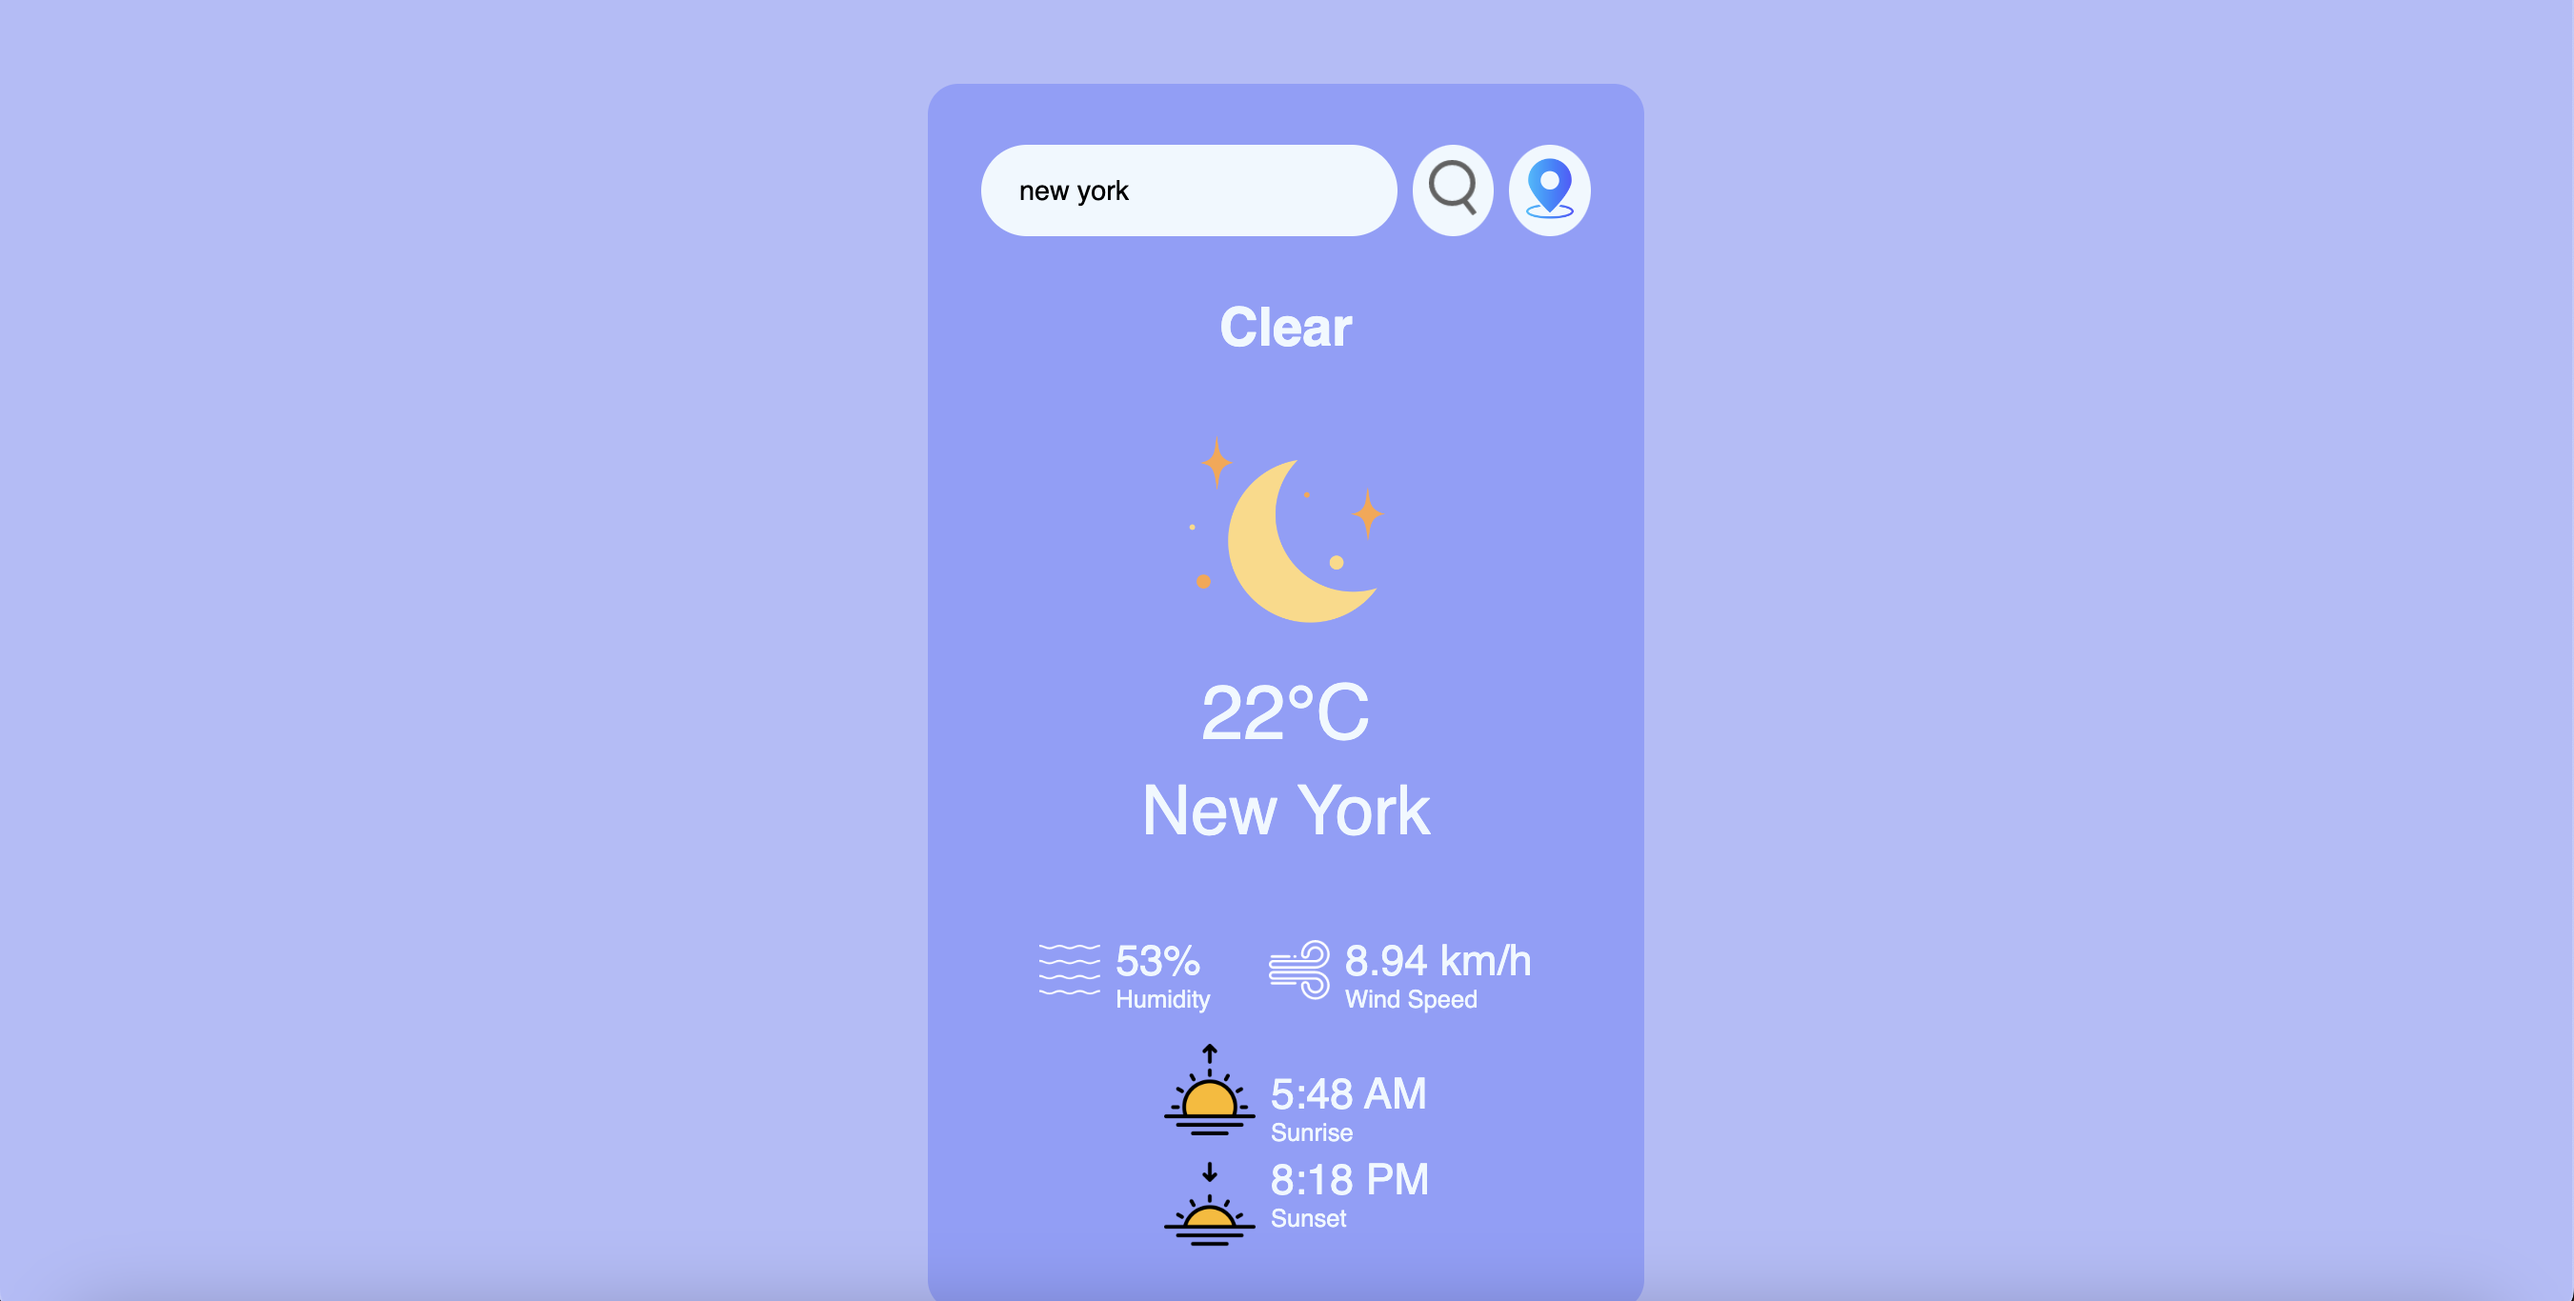
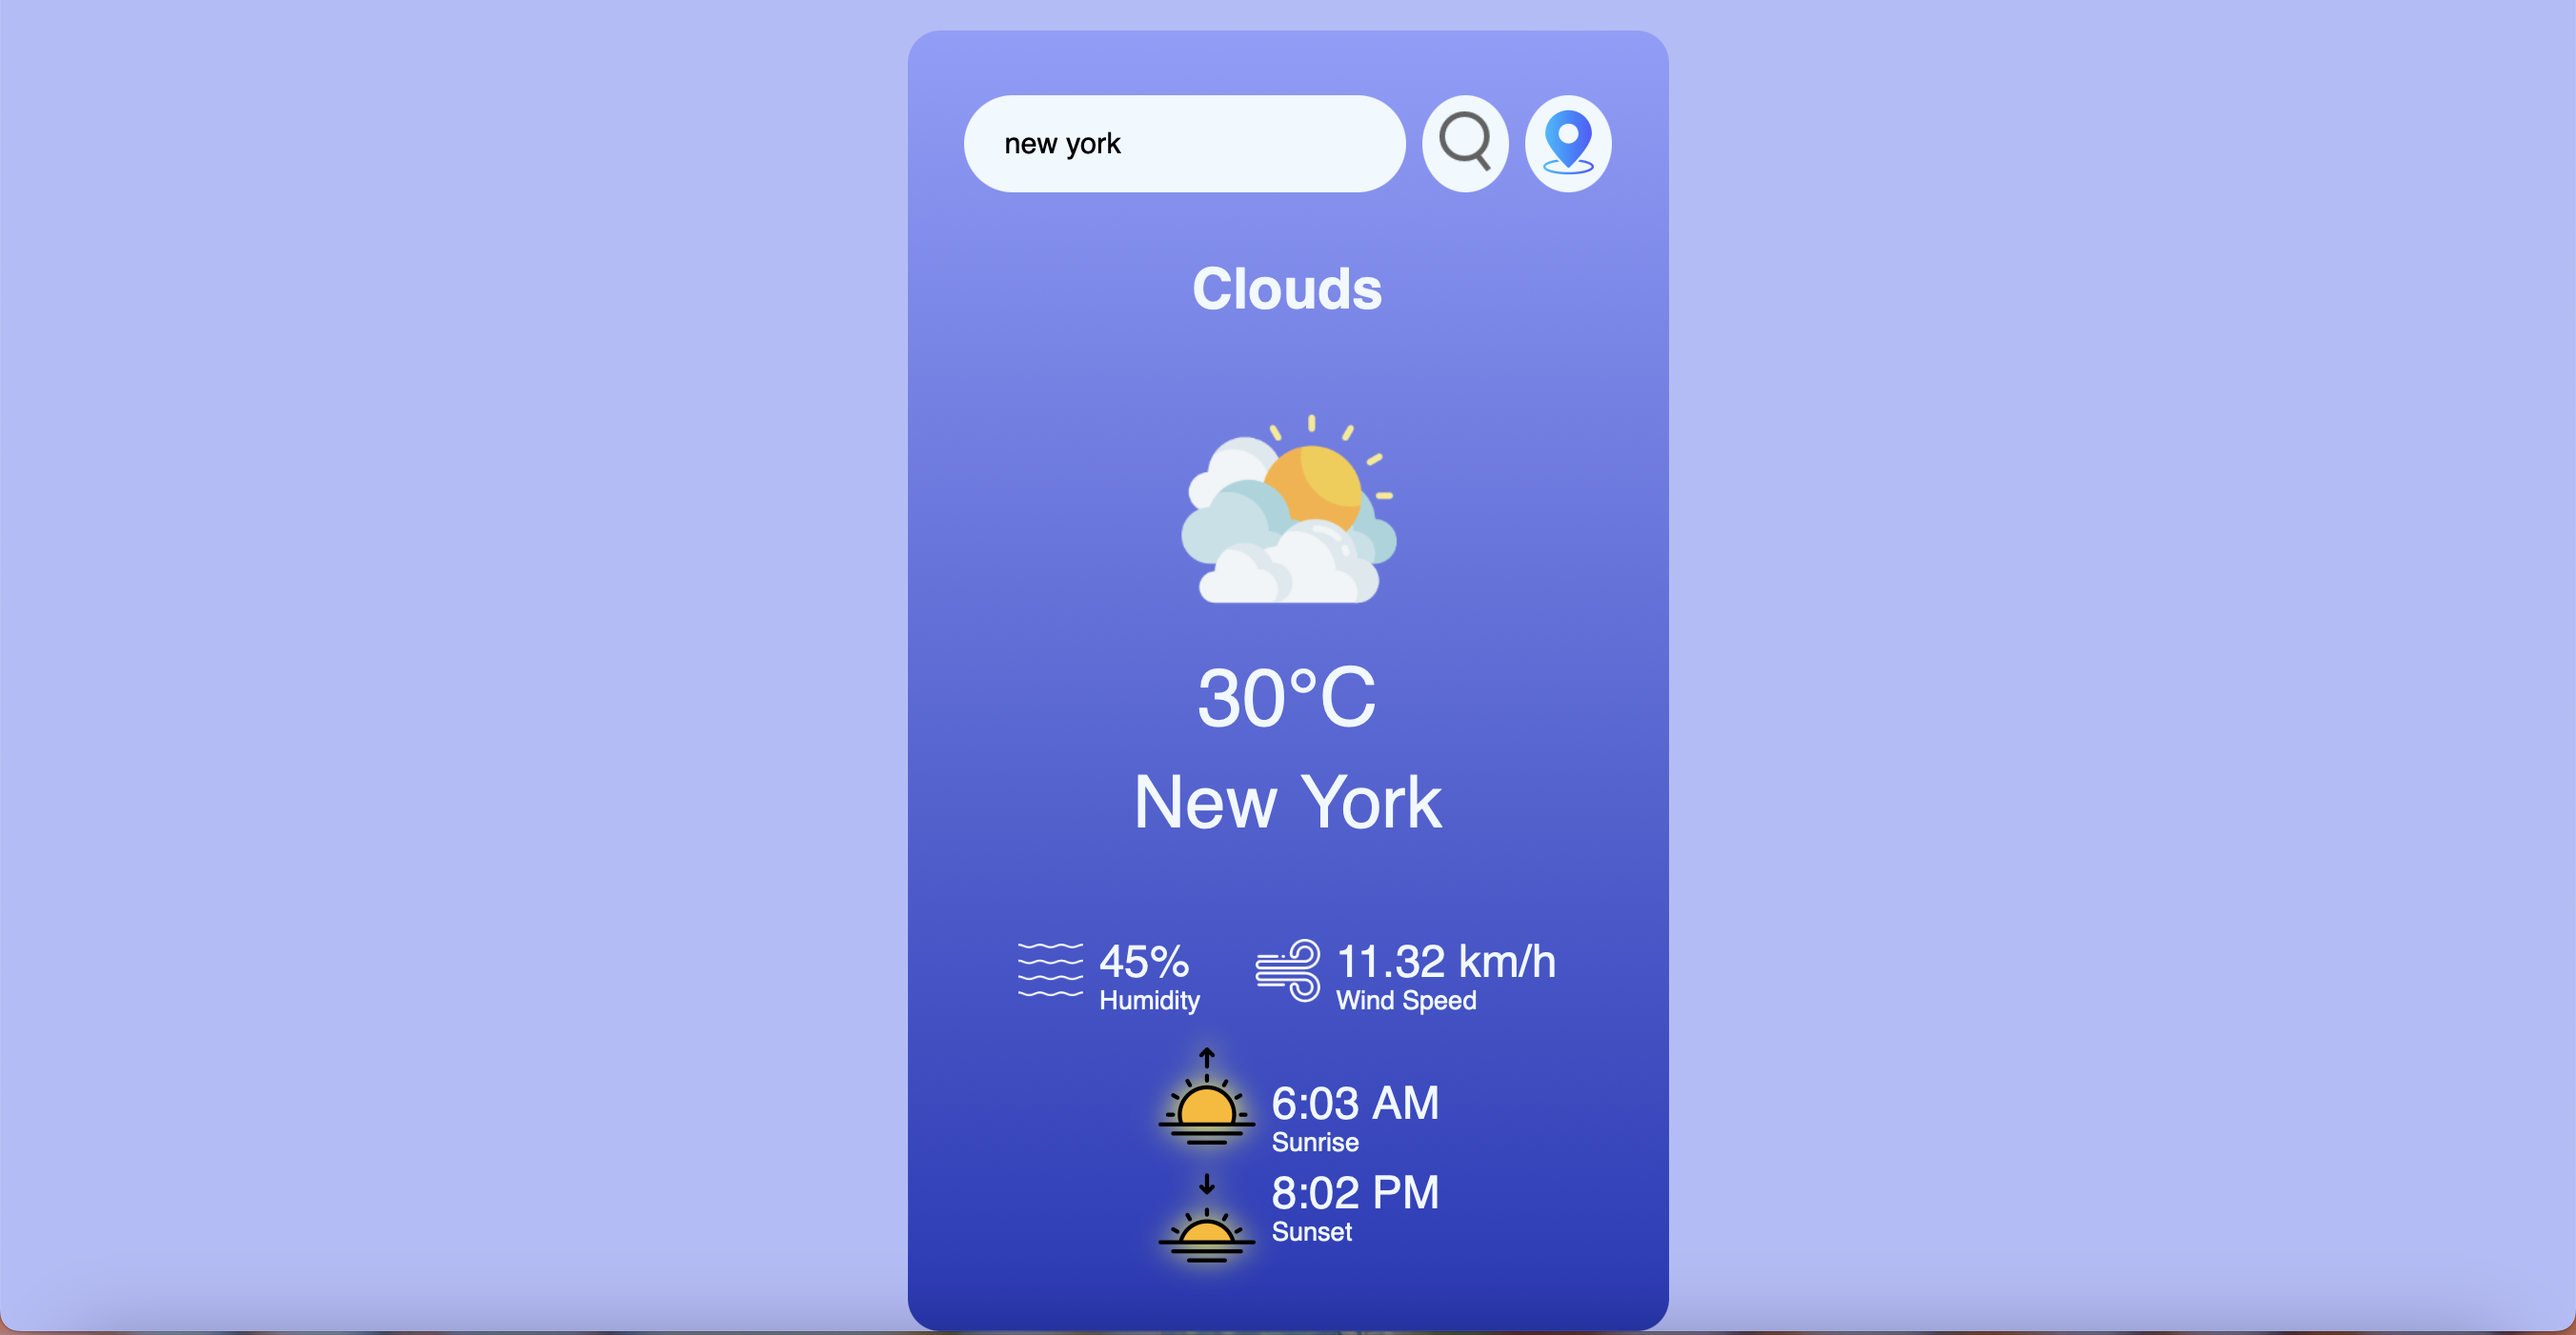
Your commit message

Changed region(s): [[0.0, 0.0, 1.0, 1.0]]

diff --git a/styles.css b/styles.css
@@ -8,7 +8,7 @@ body{
     background-color: linear(rgb(178, 188, 250));
 }
 .card{
-    background-color: rgb(143, 158, 252);
+    background: linear-gradient(rgb(143, 158, 252), rgb(37, 57, 185));
     width: 90%;
     max-width: 470px;
     color: aliceblue;
@@ -116,6 +116,7 @@ body{
 }
 .sunrise-set img{
     width: 60px;
+    filter: drop-shadow(0 0 10px yellow);
 }
 .weather-status{
     padding-top: 40px;
